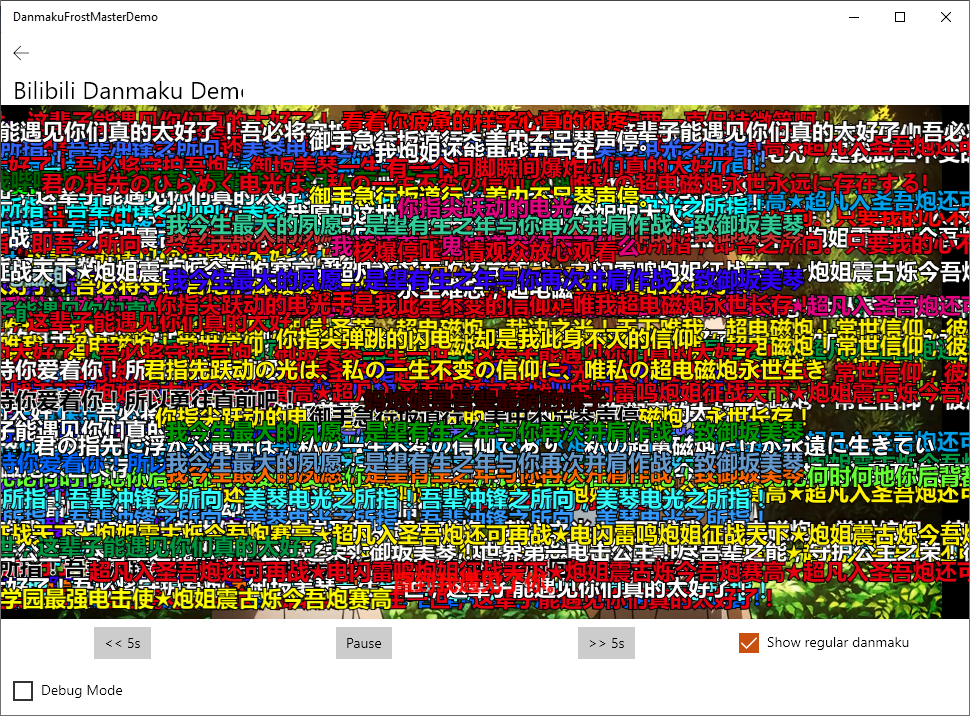
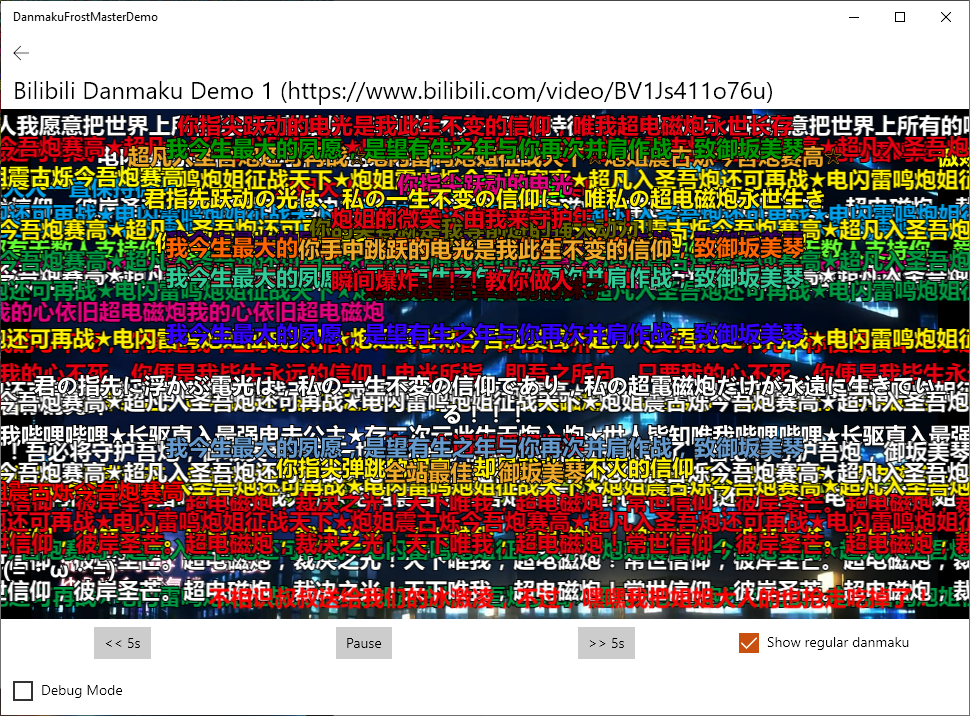
update demo screenshots

diff --git a/DanmakuFrostMasterDemo/BilibiliDemo1Page.xaml b/DanmakuFrostMasterDemo/BilibiliDemo1Page.xaml
@@ -25,7 +25,8 @@
 
         <Button x:Name="_btnBack" Grid.Row="0" Style="{StaticResource NavigationBackButtonNormalStyle}" IsEnabled="{x:Bind Frame.CanGoBack, Mode=OneWay}" Click="_btnBack_Click"/>
 
-        <TextBlock Grid.Row="1" Grid.ColumnSpan="4" Margin="12 0 0 0" FontSize="24" Text="Bilibili Danmaku Demo 1"/>
+        <TextBlock Grid.Row="1" Grid.ColumnSpan="4" Margin="12 0 4 4" FontSize="24" IsTextSelectionEnabled="True"
+                   Text="Bilibili Danmaku Demo 1 (https://www.bilibili.com/video/BV1Js411o76u)"/>
 
         <MediaPlayerElement x:Name="_mpe" Grid.Row="2" Grid.ColumnSpan="4" Source="ms-appx:///DemoFiles/demo_2.mp4" AutoPlay="False"/>
         <canvas:CanvasAnimatedControl x:Name="_canvasDanmaku" Grid.Row="2" Grid.ColumnSpan="4" ClearColor="Transparent"/>

diff --git a/DanmakuFrostMasterDemo/BilibiliDemo2Page.xaml b/DanmakuFrostMasterDemo/BilibiliDemo2Page.xaml
@@ -25,7 +25,8 @@
 
         <Button x:Name="_btnBack" Grid.Row="0" Style="{StaticResource NavigationBackButtonNormalStyle}" IsEnabled="{x:Bind Frame.CanGoBack, Mode=OneWay}" Click="_btnBack_Click"/>
 
-        <TextBlock Grid.Row="1" Grid.ColumnSpan="4" Margin="12 0 0 0" FontSize="24" Text="Bilibili Danmaku Demo 2"/>
+        <TextBlock Grid.Row="1" Grid.ColumnSpan="4" Margin="12 0 4 4" FontSize="24" IsTextSelectionEnabled="True"
+                   Text="Bilibili Danmaku Demo 2 (https://www.bilibili.com/video/BV1Ws411m7VY)"/>
 
         <MediaPlayerElement x:Name="_mpe" Grid.Row="2" Grid.ColumnSpan="4" Source="ms-appx:///DemoFiles/demo_3.mp4" AutoPlay="False"/>
         <canvas:CanvasAnimatedControl x:Name="_canvasDanmaku" Grid.Row="2" Grid.ColumnSpan="4" ClearColor="Transparent"/>

diff --git a/DanmakuFrostMasterDemo/AssDemoPage.xaml b/DanmakuFrostMasterDemo/AssDemoPage.xaml
@@ -20,7 +20,7 @@
 
         <Button x:Name="_btnBack" Grid.Row="0" Style="{StaticResource NavigationBackButtonNormalStyle}" IsEnabled="{x:Bind Frame.CanGoBack, Mode=OneWay}" Click="_btnBack_Click"/>
 
-        <TextBlock Grid.Row="1" Margin="12 0 0 0" FontSize="24" Text="ASS Subtitle Demo"/>
+        <TextBlock Grid.Row="1" Margin="12 0 4 4" FontSize="24" Text="ASS Subtitle Demo"/>
 
         <MediaPlayerElement x:Name="_mpe" Grid.Row="2" Grid.ColumnSpan="3" AutoPlay="False"/>
         <canvas:CanvasAnimatedControl x:Name="_canvasDanmaku" Grid.Row="2" Grid.ColumnSpan="3" ClearColor="Transparent"/>

diff --git a/DanmakuFrostMasterDemo/DanmakuDemoPage.xaml b/DanmakuFrostMasterDemo/DanmakuDemoPage.xaml
@@ -25,7 +25,7 @@
         <Button x:Name="_btnBack" Grid.Row="0" Grid.ColumnSpan="3" Style="{StaticResource NavigationBackButtonNormalStyle}" IsEnabled="{x:Bind Frame.CanGoBack, Mode=OneWay}" 
                 Click="_btnBack_Click"/>
 
-        <TextBlock Grid.Row="1" Grid.ColumnSpan="4" Margin="12 0 0 0" FontSize="24" Text="Realtime Danmaku Demo"/>
+        <TextBlock Grid.Row="1" Grid.ColumnSpan="4" Margin="12 0 4 4" FontSize="24" Text="Realtime Danmaku Demo"/>
 
         <canvas:CanvasAnimatedControl x:Name="_canvasDanmaku" Grid.Row="2" Grid.ColumnSpan="3" ClearColor="Transparent"/>
 
